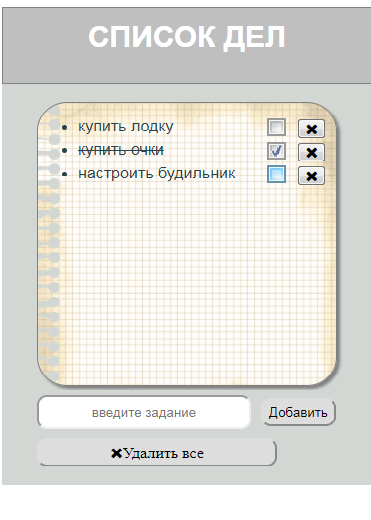
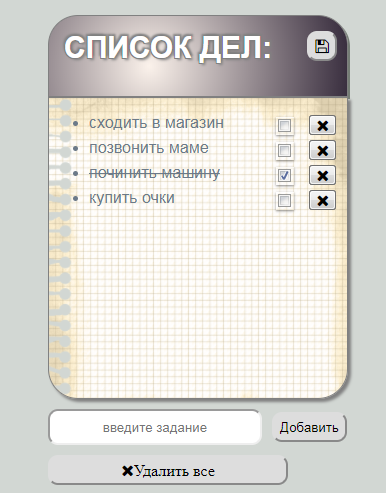
new stile

diff --git a/src/css/style.css b/src/css/style.css
@@ -94,54 +94,19 @@ h1:hover {
 }
 .checkbox{
     position: absolute;
-    right: 50px;
-    transform:scale(1.4);
+    right: 50px;   
     opacity:0.9;
     cursor:pointer;
-    width: 28px;
-  height: 28px;  
-  
-  background: #fcfff4;
-  background: linear-gradient(top, #fcfff4 0%, #dfe5d7 40%, #b3bead 100%);
-  box-shadow: inset 0px 1px 1px white, 0px 1px 3px rgba(0,0,0,0.5);}
-
-label {
-    width: 20px;
-    height: 20px;
-    cursor: pointer;
-    position: absolute;
-    right:50px;
-    background: linear-gradient(top, #222 0%, #45484d 100%);
-    box-shadow: inset 0px 1px 1px rgba(0,0,0,0.5), 0px 1px 0px rgba(255,255,255,1);
+    width: 18px;
+    height: 18px;  
+    background: #fcfff4;
+  background: -webkit-linear-gradient(#fcfff4 0%, #dfe5d7 40%, #b3bead 100%);
+  background: -o-linear-gradient(#fcfff4 0%, #dfe5d7 40%, #b3bead 100%);
+  background: linear-gradient(#fcfff4 0%, #dfe5d7 40%, #b3bead 100%);
+  box-shadow: inset 0px 1px 1px white, 0px 1px 3px rgba(0,0,0,0.5);
 }
-label:after {
-      content: '';
-      width: 9px;
-      height: 5px;
-      position: absolute;
-      
-      border: 3px solid #fcfff4;
-      border-top: none;
-      border-right: none;
-      background: transparent;
-      opacity: 0;
-      transform: rotate(-45deg);
-    }
-label:hover::after {
-      opacity: 0.3;
-    }
-  
-input[type=checkbox] {
-    visibility: hidden;}
 
-input[type=checkbox]:checked {
-      opacity: 1;
-    }    
-  
-
-/* end .squaredTwo */
-
-
+ 
 li {
     margin:7px 0;
 }
